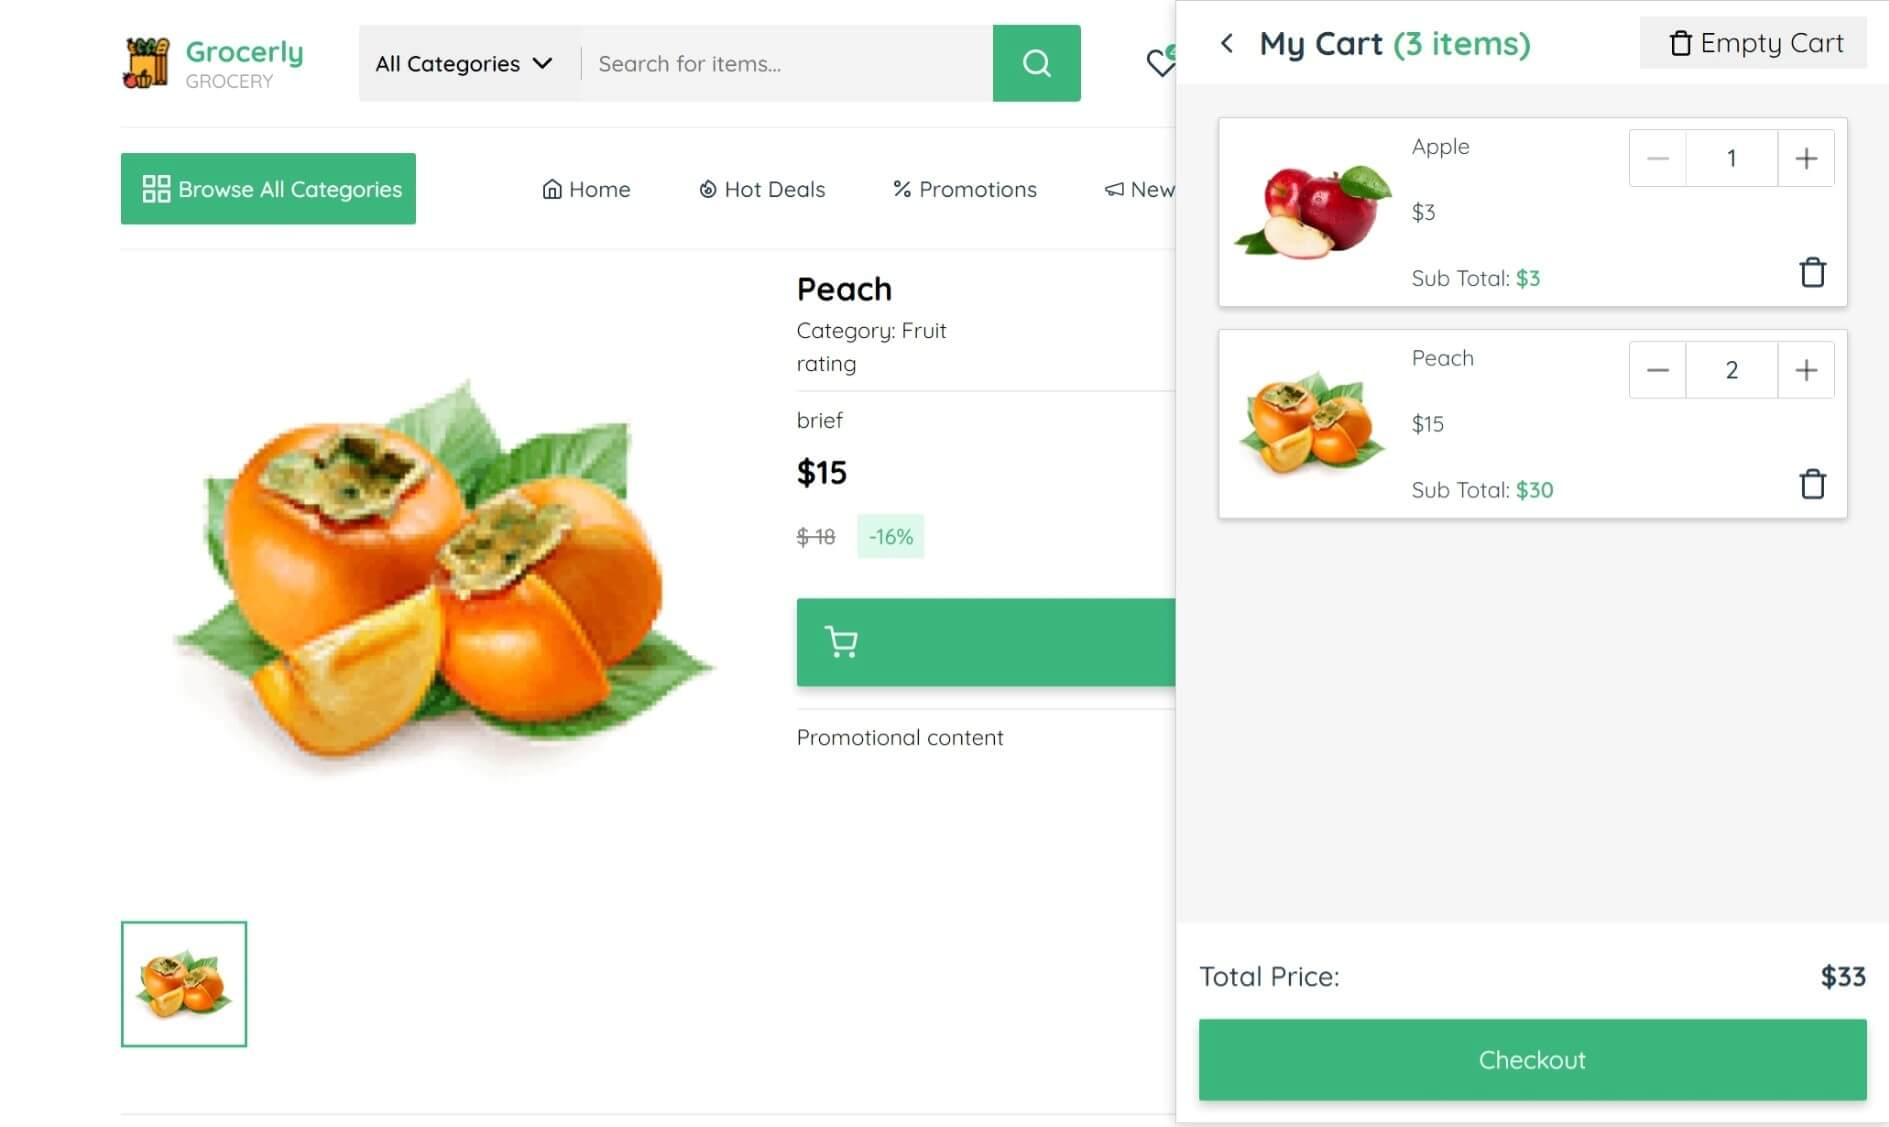
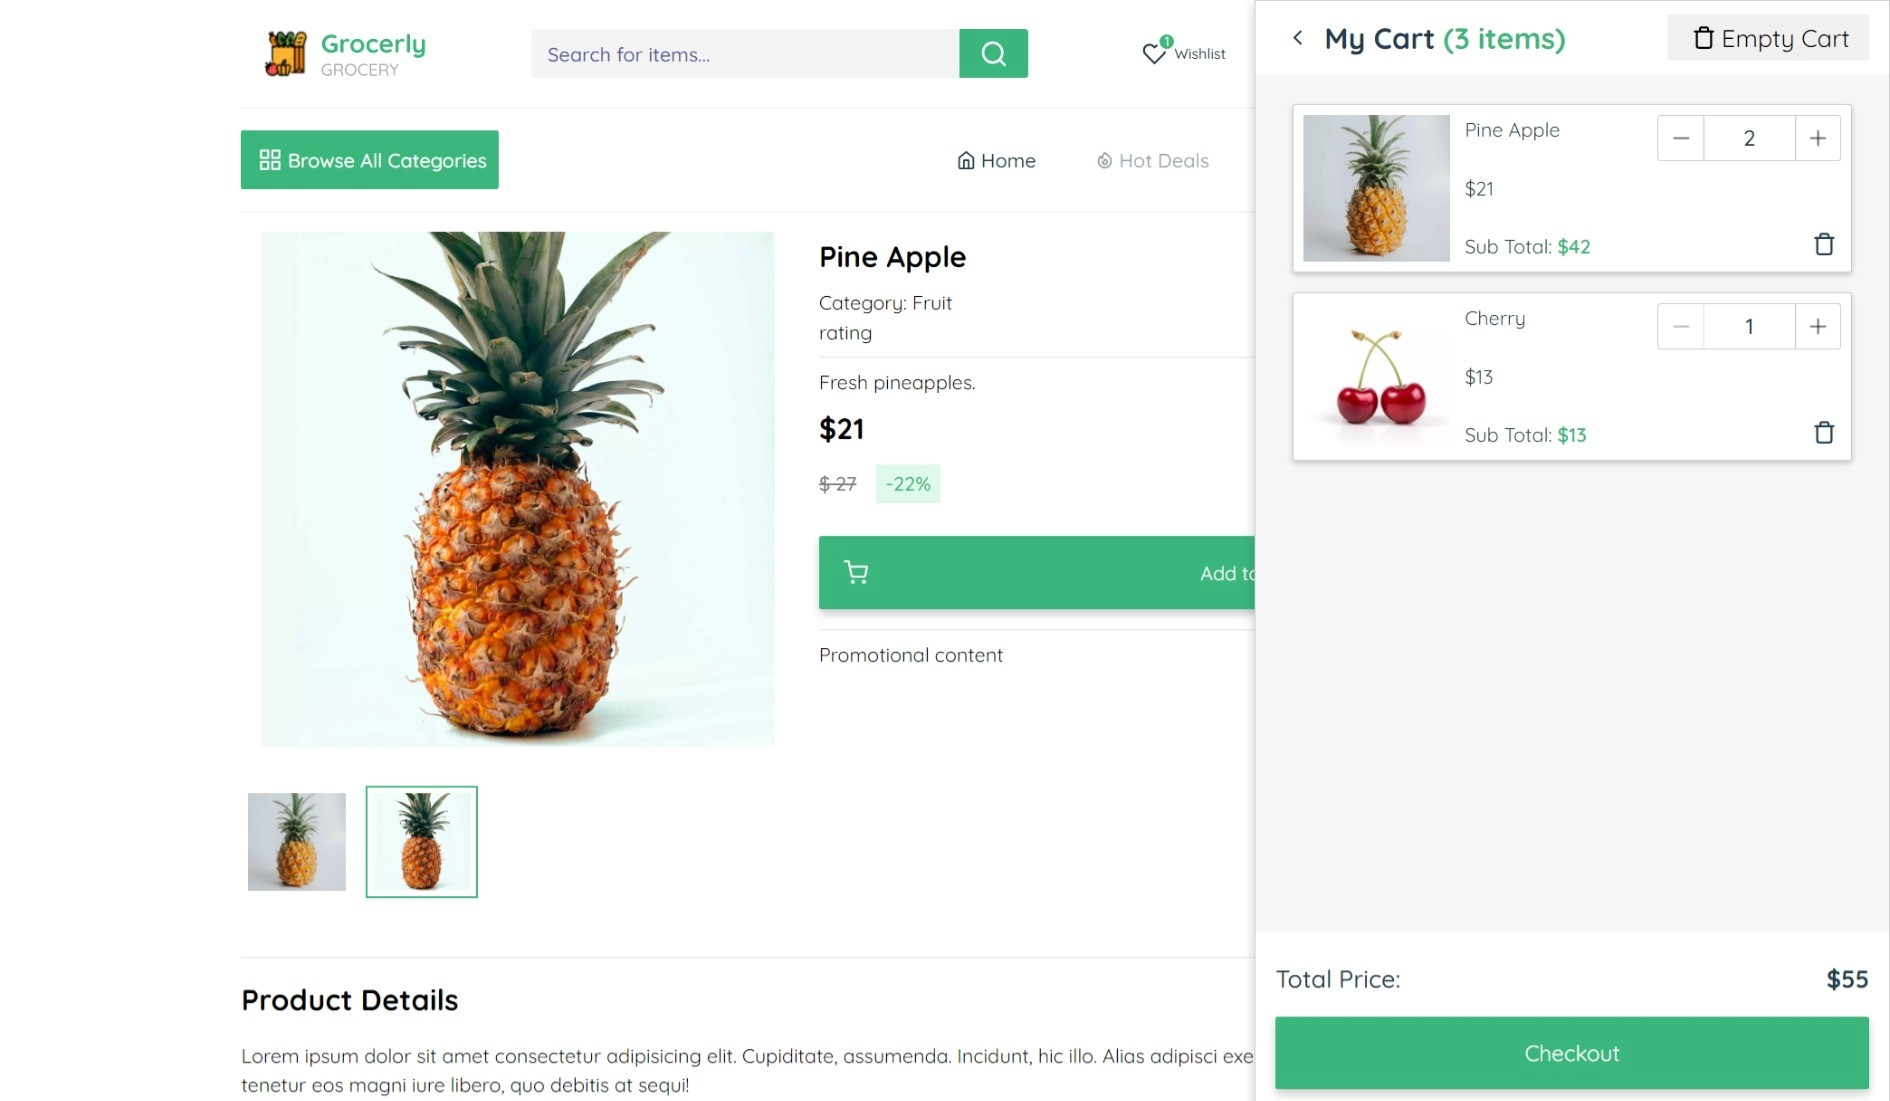
add wishlist and new screens

diff --git a/README.md b/README.md
@@ -30,17 +30,25 @@ A visiting user is able to do the following:
 
 ![image of homepage](/src/assets/screenshots/home-page.jpeg)
 
-#### Search page
+#### Categories page
 
-![image of homepage](/src/assets/screenshots/search-page.jpeg)
+![image of all products page](/src/assets/screenshots/categories-page.jpeg)
+
+#### Search feature
+
+![image of all products page](/src/assets/screenshots/search.jpeg)
 
 #### Product page
 
-![image of homepage](/src/assets/screenshots/product-page.jpeg)
+![image of product page](/src/assets/screenshots/product-page.jpeg)
 
 #### Cart
 
-![image of homepage](/src/assets/screenshots/cart.jpeg)
+![image of cart](/src/assets/screenshots/cart.jpeg)
+
+#### Wishlist
+
+![image of wishlist](/src/assets/screenshots/wishlist.jpeg)
 
 ## How I worked on this project
 
